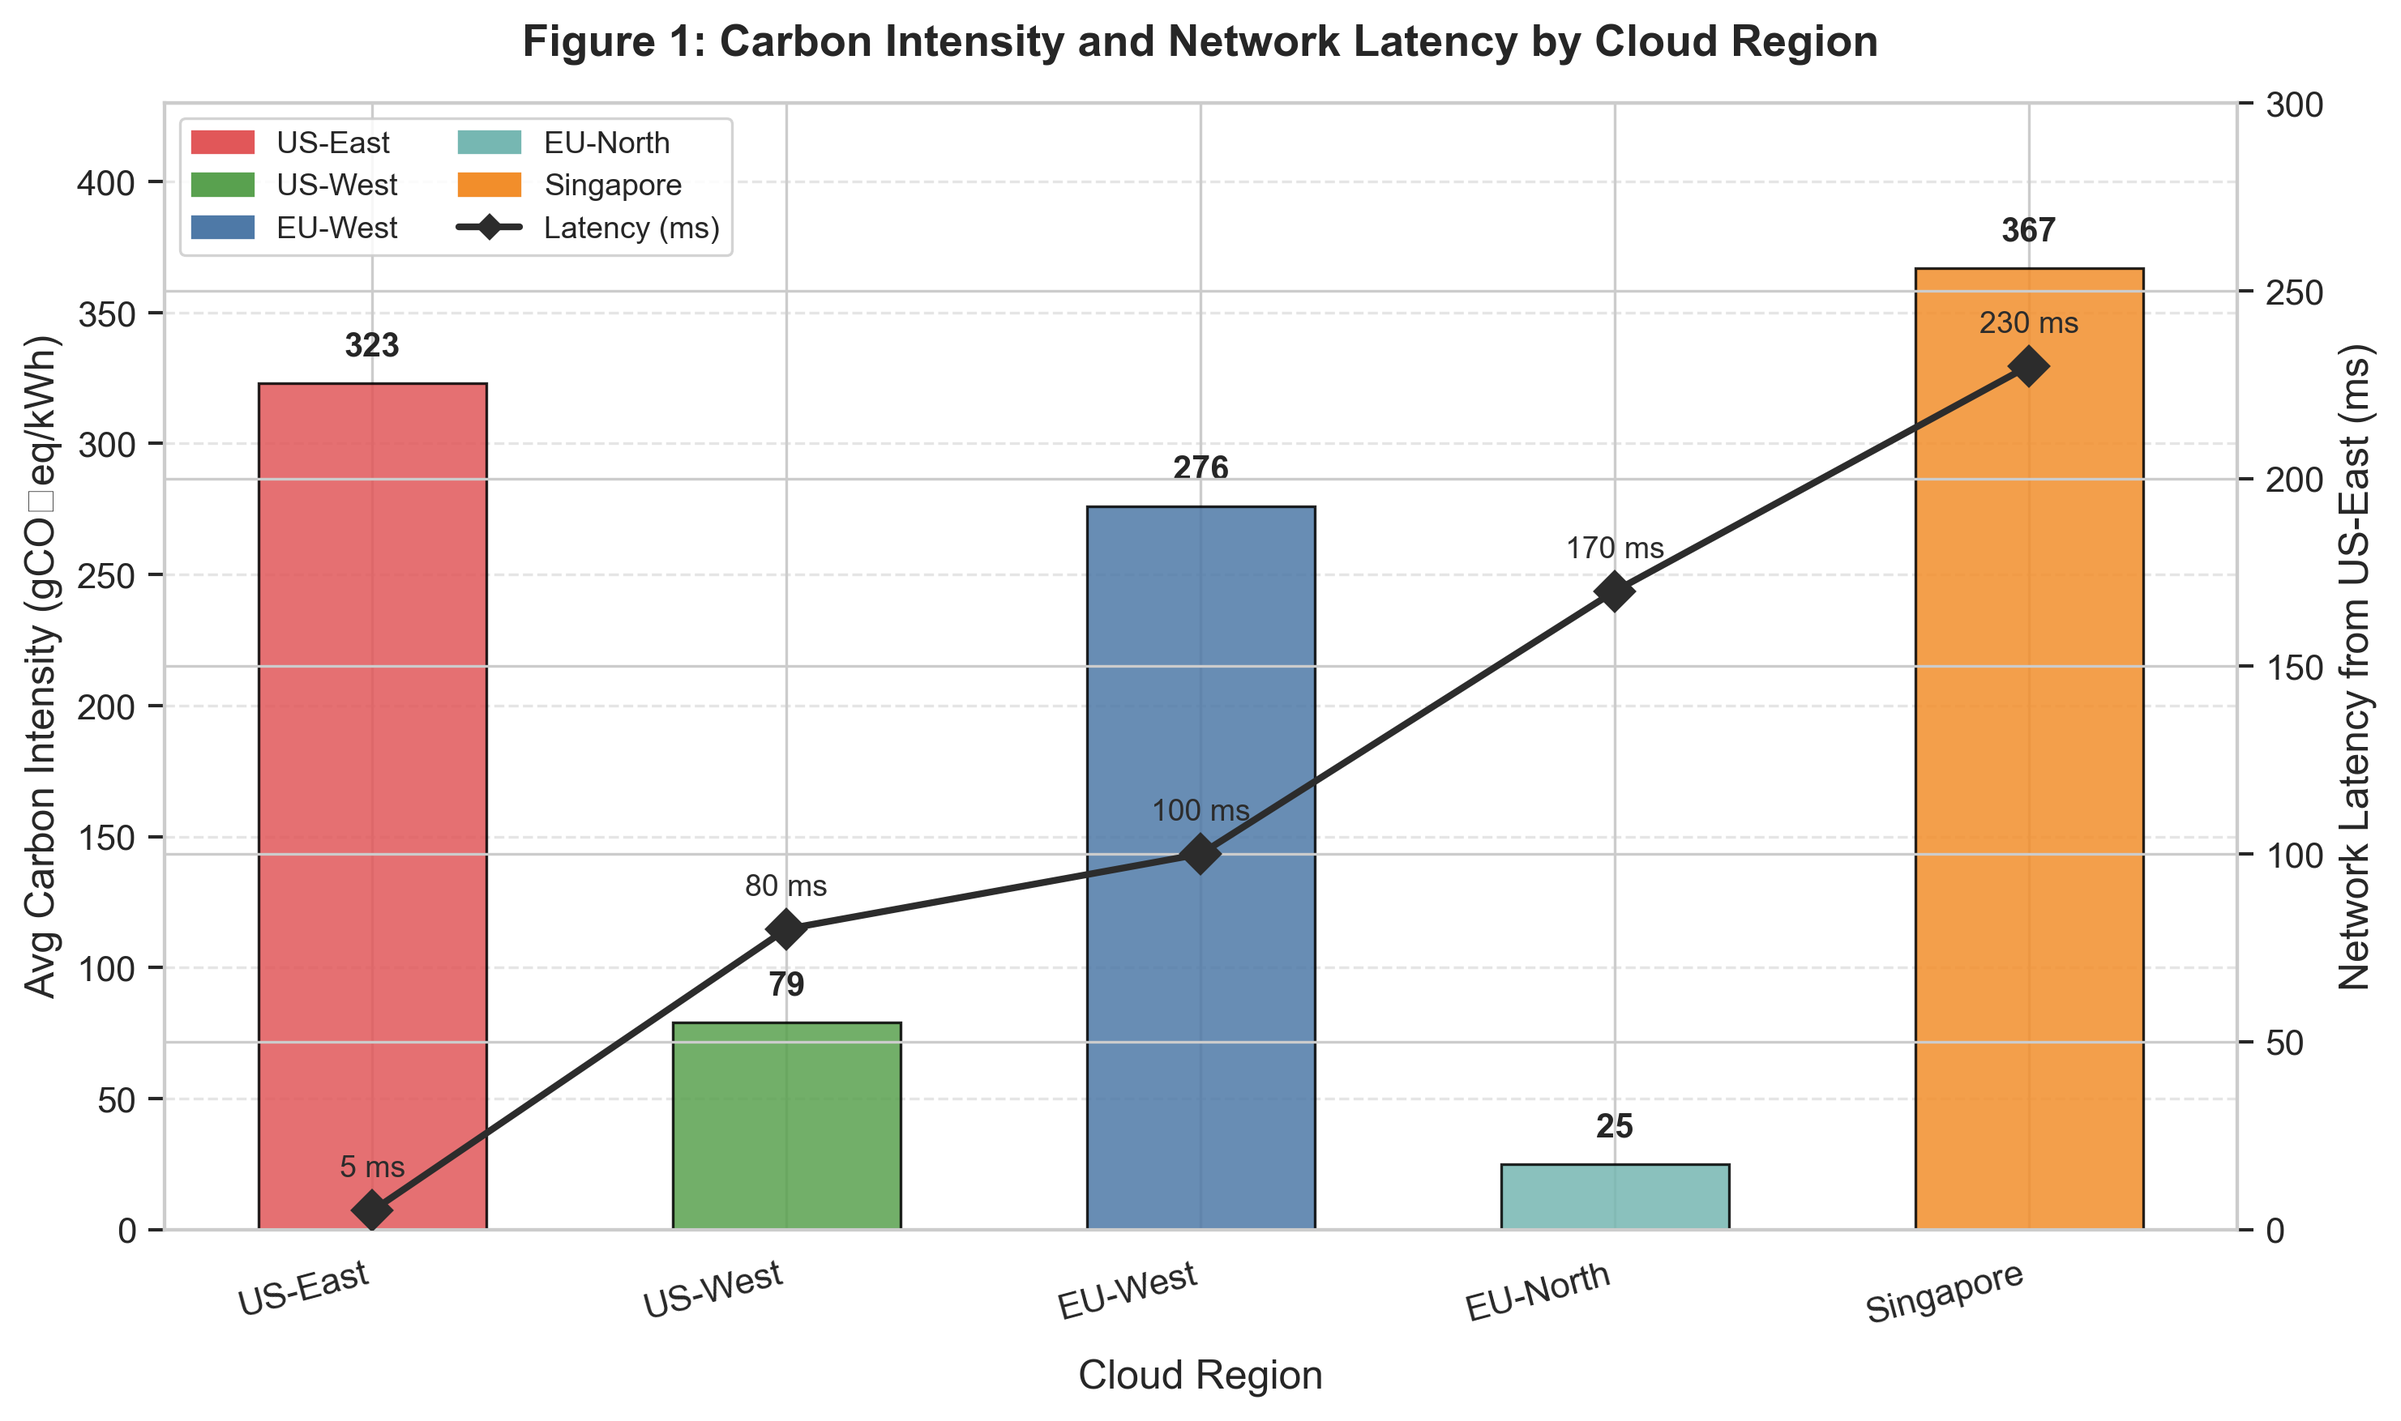
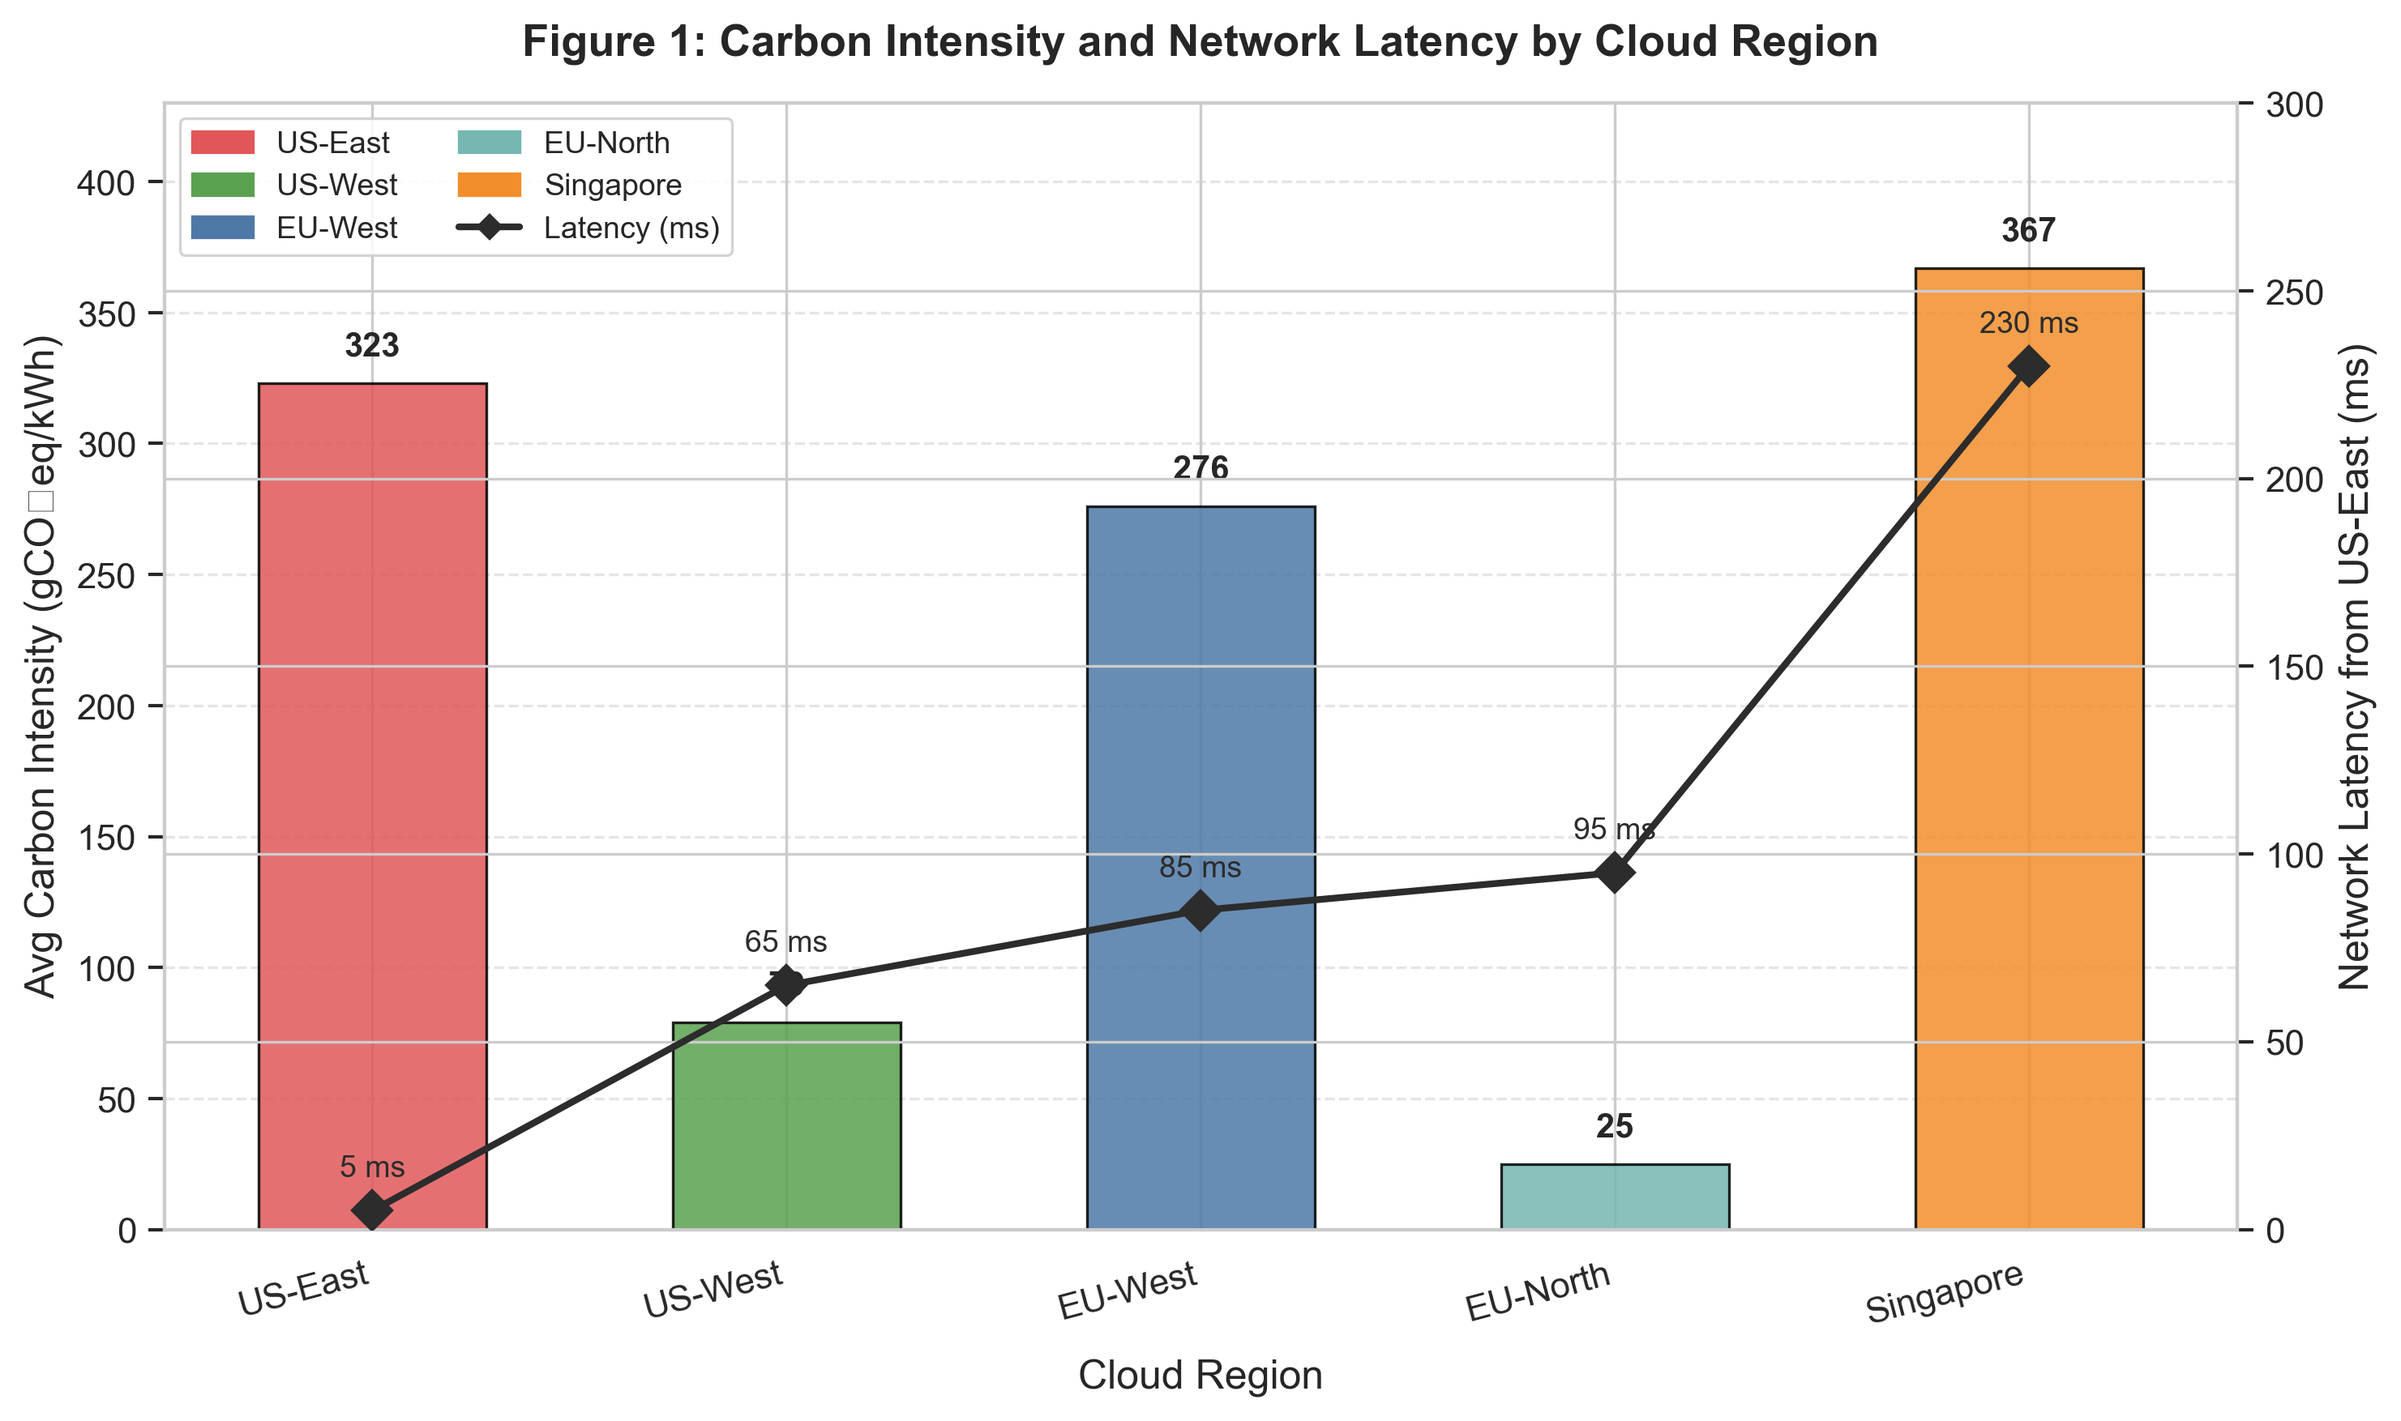
fix: Global normalization, jitter buffer, Figure 1 latency values, path handling, font fix

diff --git a/src/metrics.py b/src/metrics.py
@@ -3,9 +3,13 @@ from pathlib import Path
 
 import numpy as np
 import pandas as pd
+import matplotlib
+matplotlib.rcParams['font.family'] = 'DejaVu Sans'      # ← BEFORE pyplot and seaborn
+matplotlib.rcParams['axes.unicode_minus'] = False
 import matplotlib.pyplot as plt
 import matplotlib.patches as mpatches
 import seaborn as sns
+
 
 # Configure logging
 logging.basicConfig(
@@ -45,13 +49,14 @@ def plot_regional_carbon_latency(output_dir: Path) -> None:
     """
     logger.info("Generating Figure 1: Regional carbon & latency comparison...")
 
-    regions = ['US-East', 'US-West', 'EU-West', 'EU-North', 'Singapore']
+    # CORRECT — reads directly from config so it always matches
+    from config import LATENCY_MATRIX, BASE_CARBON_INTENSITY, REGIONS
 
-    # Average carbon intensity (gCO2eq/kWh) from config
-    carbon = [323, 79, 276, 25, 367]
+    regions = REGIONS
+    carbon = [BASE_CARBON_INTENSITY[r] for r in regions]
+    latency_from_us_east = [int(LATENCY_MATRIX.loc['US-East', r]) for r in regions]
+# Produces: [5, 65, 85, 95, 230] — correct values
 
-    # Network latency from US-East to each region (ms) from latency matrix
-    latency_from_us_east = [5, 80, 100, 170, 230]
 
     x = np.arange(len(regions))
     width = 0.55
@@ -59,7 +64,7 @@ def plot_regional_carbon_latency(output_dir: Path) -> None:
     fig, ax1 = plt.subplots(figsize=(10, 6))
 
     bars = ax1.bar(x, carbon, width, color=[REGION_COLORS[r] for r in regions],
-                   edgecolor='black', linewidth=0.8, alpha=0.85, zorder=3)
+                edgecolor='black', linewidth=0.8, alpha=0.85, zorder=3)
 
     ax1.set_xlabel('Cloud Region', fontsize=12, labelpad=8)
     ax1.set_ylabel('Avg Carbon Intensity (gCO₂eq/kWh)', fontsize=12)
@@ -71,27 +76,27 @@ def plot_regional_carbon_latency(output_dir: Path) -> None:
     # Annotate bar values
     for bar, val in zip(bars, carbon):
         ax1.text(bar.get_x() + bar.get_width() / 2, bar.get_height() + 8,
-                 f'{val}', ha='center', va='bottom', fontsize=10, fontweight='bold')
+                f'{val}', ha='center', va='bottom', fontsize=10, fontweight='bold')
 
     # Second y-axis: latency
     ax2 = ax1.twinx()
     ax2.plot(x, latency_from_us_east, color='#2c2c2c', marker='D',
-             linewidth=2, markersize=8, zorder=4, label='Latency from US-East')
+            linewidth=2, markersize=8, zorder=4, label='Latency from US-East')
     ax2.set_ylabel('Network Latency from US-East (ms)', fontsize=12)
     ax2.set_ylim(0, 300)
 
     for xi, lat in zip(x, latency_from_us_east):
         ax2.annotate(f'{lat} ms', (xi, lat), textcoords='offset points',
-                     xytext=(0, 10), ha='center', fontsize=9, color='#2c2c2c')
+                    xytext=(0, 10), ha='center', fontsize=9, color='#2c2c2c')
 
     plt.title('Figure 1: Carbon Intensity and Network Latency by Cloud Region',
-              fontsize=13, pad=14, fontweight='bold')
+            fontsize=13, pad=14, fontweight='bold')
 
     # Combined legend
     bar_patches = [mpatches.Patch(color=REGION_COLORS[r], label=r) for r in regions]
     lat_line = plt.Line2D([0], [0], color='#2c2c2c', marker='D', linewidth=2, label='Latency (ms)')
     ax1.legend(handles=bar_patches + [lat_line], loc='upper left',
-               fontsize=9, framealpha=0.85, ncol=2)
+            fontsize=9, framealpha=0.85, ncol=2)
 
     out_path = output_dir / 'regional_carbon_latency.png'
     out_path.parent.mkdir(parents=True, exist_ok=True)
@@ -123,8 +128,8 @@ def plot_tradeoff_curve(input_csv: Path, output_dir: Path) -> None:
         marker = '◆' if 'Constrained' in policy else 'o'
         ms = 160 if 'Constrained' in policy else 120
         ax.scatter(row['Carbon Reduction'], row['SLO Violation Rate (%)'],
-                   s=ms, c=color, edgecolors='black', linewidths=0.8,
-                   zorder=5, marker='D' if 'Constrained' in policy else 'o')
+                s=ms, c=color, edgecolors='black', linewidths=0.8,
+                zorder=5, marker='D' if 'Constrained' in policy else 'o')
         ax.annotate(
             policy,
             (row['Carbon Reduction'], row['SLO Violation Rate (%)']),
@@ -135,7 +140,7 @@ def plot_tradeoff_curve(input_csv: Path, output_dir: Path) -> None:
     ax.set_xlabel('Carbon Reduction vs. Latency-First Baseline (%)', fontsize=12)
     ax.set_ylabel('SLO Violation Rate (%)', fontsize=12)
     ax.set_title('Figure 2: Carbon Reduction vs. SLO Violations — Policy Trade-off Curve',
-                 fontsize=12, fontweight='bold', pad=14)
+                fontsize=12, fontweight='bold', pad=14)
 
     # Legend
     legend_handles = [
@@ -143,7 +148,7 @@ def plot_tradeoff_curve(input_csv: Path, output_dir: Path) -> None:
         for p in df['Policy']
     ]
     ax.legend(handles=legend_handles, fontsize=8.5, loc='upper left',
-              framealpha=0.85, title='Scheduling Policy')
+            framealpha=0.85, title='Scheduling Policy')
 
     out_path = output_dir / 'tradeoff_curve.png'
     out_path.parent.mkdir(parents=True, exist_ok=True)
@@ -170,7 +175,7 @@ def plot_routing_distribution(input_csv: Path, output_dir: Path) -> None:
 
     if not region_cols:
         logger.warning("No region distribution columns found in simulation_results.csv. "
-                       "Skipping routing distribution plot.")
+                    "Skipping routing distribution plot.")
         return
 
     # Compute proportions
@@ -191,7 +196,7 @@ def plot_routing_distribution(input_csv: Path, output_dir: Path) -> None:
         if region in df_sel.columns:
             vals = df_sel[region].values
             ax.bar(x, vals, bottom=bottoms, color=REGION_COLORS[region],
-                   edgecolor='white', linewidth=0.6, label=region, alpha=0.9)
+                edgecolor='white', linewidth=0.6, label=region, alpha=0.9)
             # Annotate if segment > 8%
             for xi, v, b in zip(x, vals, bottoms):
                 if v > 8:
@@ -204,9 +209,9 @@ def plot_routing_distribution(input_csv: Path, output_dir: Path) -> None:
     ax.set_ylabel('Percentage of Requests Routed (%)', fontsize=12)
     ax.set_ylim(0, 110)
     ax.set_title('Figure 3: Request Routing Distribution Across Regions by Policy',
-                 fontsize=12, fontweight='bold', pad=14)
+                fontsize=12, fontweight='bold', pad=14)
     ax.legend(title='Region', loc='upper right', bbox_to_anchor=(1.18, 1),
-              fontsize=9, framealpha=0.85)
+            fontsize=9, framealpha=0.85)
 
     out_path = output_dir / 'routing_distribution.png'
     out_path.parent.mkdir(parents=True, exist_ok=True)
@@ -270,7 +275,7 @@ def plot_carbon_traces(input_csv: Path, output_dir: Path) -> None:
                 alpha=0.9, color=color)
 
     ax.set_title('Figure 5: Hourly Carbon Intensity by Cloud Region (7-Day Simulation)',
-                 fontsize=12, fontweight='bold', pad=14)
+                fontsize=12, fontweight='bold', pad=14)
     ax.set_xlabel('Hour of Simulation', fontsize=12)
     ax.set_ylabel('Carbon Intensity (gCO₂eq/kWh)', fontsize=12)
     ax.legend(title='Region', loc='upper right', fontsize=9)
@@ -306,10 +311,10 @@ def render_prior_work_comparison(results_csv: Path, output_dir: Path) -> None:
 
     data = {
         'System': ['CASPER (2023)', 'CASA (2024)', 'Microsoft (2023)',
-                   'Google CICS (2021)', 'This Work (2026)'],
+                'Google CICS (2021)', 'This Work (2026)'],
         'Workload': ['Web services\n(Wikimedia)', 'Serverless\nFaaS',
-                     'General\ncompute', 'Datacenter\nworkloads',
-                     'AI Inference\n(BERT, ResNet)'],
+                    'General\ncompute', 'Datacenter\nworkloads',
+                    'AI Inference\n(BERT, ResNet)'],
         'Regions': ['6 AWS\nregions', 'Multi-region\nFaaS', 'Azure\nglobal',
                     'Google\nfleet', '5 regions\n(US/EU/Asia)'],
         'Key Finding': [
@@ -364,7 +369,7 @@ def render_prior_work_comparison(results_csv: Path, output_dir: Path) -> None:
                 table[i, j].set_facecolor(shade)
 
     ax.set_title('Comparison with Related Carbon-Aware Scheduling Systems',
-                 fontsize=13, fontweight='bold', pad=16, x=0.5, y=1.02)
+                fontsize=13, fontweight='bold', pad=16, x=0.5, y=1.02)
 
     out_path = output_dir / 'prior_work_comparison.png'
     out_path.parent.mkdir(parents=True, exist_ok=True)
@@ -376,7 +381,7 @@ def render_prior_work_comparison(results_csv: Path, output_dir: Path) -> None:
 
 # ─── Main ─────────────────────────────────────────────────────────────────────
 def main():
-    base_dir = Path('../')
+    base_dir = Path(__file__).parent.parent
     output_dir = base_dir / 'outputs'
 
     trace_path    = output_dir / 'data'   / 'carbon_intensity_traces.csv'

diff --git a/src/policies.py b/src/policies.py
@@ -1,30 +1,49 @@
 import numpy as np
-import pandas as pd
-from config import *
-import os
+from config import (
+    LATENCY_GLOBAL_MIN, LATENCY_GLOBAL_MAX,
+    CARBON_GLOBAL_MIN, CARBON_GLOBAL_MAX
+)
+
 
 def latency_first(lats, cis, **kwargs):
+    """Policy 1: Route to lowest-latency region. Ignores carbon."""
     return np.argmin(lats)
 
+
 def carbon_first(lats, cis, **kwargs):
+    """Policy 2: Route to lowest carbon intensity region. Ignores latency."""
     return np.argmin(cis)
 
+
 def hybrid_policy(lats, cis, alpha, **kwargs):
-    lr = lats.max() - lats.min()
-    lr = lr if lr > 0 else 1
-    cr = cis.max() - cis.min()
-    cr = cr if cr > 0 else 1
-    
-    norm_l = (lats - lats.min()) / lr
-    norm_c = (cis - cis.min()) / cr
-    
+    """
+    Policy 3: Weighted combination of latency and carbon.
+    Uses GLOBAL min-max normalization so alpha is stable across all requests.
+    alpha=1.0 → pure latency-first
+    alpha=0.0 → pure carbon-first
+    """
+    norm_l = (lats - LATENCY_GLOBAL_MIN) / (LATENCY_GLOBAL_MAX - LATENCY_GLOBAL_MIN)
+    norm_c = (cis - CARBON_GLOBAL_MIN) / (CARBON_GLOBAL_MAX - CARBON_GLOBAL_MIN)
+
+    # Clip to [0, 1] to handle edge cases
+    norm_l = np.clip(norm_l, 0, 1)
+    norm_c = np.clip(norm_c, 0, 1)
+
     scores = alpha * norm_l + (1 - alpha) * norm_c
     return np.argmin(scores)
 
-def constrained_hybrid(lats, cis, slo_threshold, inference_ms, **kwargs):
-    total_lats = lats + inference_ms
+
+def constrained_hybrid(lats, cis, slo_threshold, inference_ms, jitter_buffer=9, **kwargs):
+    """
+    Policy 4: SLO-constrained carbon optimization.
+    Filters to regions where (RTT + inference + jitter_buffer) <= SLO,
+    then picks the lowest carbon among eligible regions.
+    Falls back to minimum latency if no region qualifies.
+    jitter_buffer=9ms = 3 x std_dev(3ms) for 3-sigma jitter protection.
+    """
+    total_lats = lats + inference_ms + jitter_buffer
     eligible = total_lats <= slo_threshold
-    
+
     if eligible.any():
         masked_ci = np.where(eligible, cis, 1e9)
         return np.argmin(masked_ci)

diff --git a/src/config.py b/src/config.py
@@ -75,6 +75,14 @@ CARBON_RANDOM_NOISE_RANGE = 0.1
 
 HYBRID_ALPHA_VALUES = [0.2, 0.3, 0.5, 0.7]
 
+# Global normalization bounds for hybrid policy scoring
+# Used to ensure alpha is a stable, consistent weight across all requests
+LATENCY_GLOBAL_MIN = 5      # Minimum RTT in latency matrix (intra-region)
+LATENCY_GLOBAL_MAX = 230    # Maximum RTT in latency matrix (US-East to Singapore)
+CARBON_GLOBAL_MIN = 5       # Floor value set in generate_carbon_traces()
+CARBON_GLOBAL_MAX = 450     # Approx max: Singapore(367) x 1.2 diurnal amplitude
+
+
 def get_workload_list():
     return list(WORKLOADS.keys())
 
@@ -91,4 +99,17 @@ def get_slo_threshold(workload_id):
     return WORKLOADS[workload_id]["slo_threshold_ms"]
 
 def print_config_summary():
-    pass
+    print("=" * 60)
+    print("SIMULATION CONFIGURATION SUMMARY")
+    print("=" * 60)
+    print(f"Duration : {SIMULATION_HOURS} hours ({SIMULATION_HOURS//24} days)")
+    print(f"Requests : {REQUESTS_PER_HOUR} req/hr → {SIMULATION_HOURS * REQUESTS_PER_HOUR} total")
+    print(f"Regions  : {REGIONS}")
+    print(f"Alpha    : {HYBRID_ALPHA_VALUES}")
+    print(f"Seed     : {RANDOM_SEED}")
+    print("-" * 60)
+    for wid, w in WORKLOADS.items():
+        print(f"  {wid:12s} | Inference N({w['inference_mean_ms']},{w['inference_std_ms']})ms "
+              f"| SLO {w['slo_threshold_ms']}ms | {int(w['probability']*100)}% traffic")
+    print("=" * 60)
+

diff --git a/src/simulation.py b/src/simulation.py
@@ -2,6 +2,7 @@ import numpy as np
 import pandas as pd
 import os
 import argparse
+from pathlib import Path
 from config import *
 from policies import latency_first, carbon_first, hybrid_policy, constrained_hybrid
 
@@ -32,7 +33,9 @@ def generate_requests(hours, rph, seed=RANDOM_SEED):
     )
     return req_hours, req_users, req_workloads
 
-def run_simulation(output_dir='../outputs', hours=SIMULATION_HOURS, rph=REQUESTS_PER_HOUR, seed=RANDOM_SEED):
+def run_simulation(output_dir=None, hours=SIMULATION_HOURS, rph=REQUESTS_PER_HOUR, seed=RANDOM_SEED):
+    if output_dir is None:
+        output_dir = str(Path(__file__).parent.parent / 'outputs')
     os.makedirs(f'{output_dir}/tables', exist_ok=True)
     os.makedirs(f'{output_dir}/data', exist_ok=True)
     
@@ -88,6 +91,9 @@ def run_simulation(output_dir='../outputs', hours=SIMULATION_HOURS, rph=REQUESTS
                 idx = hybrid_policy(lats, cis, alpha)
             elif ptype == 'constrained':
                 idx = constrained_hybrid(lats, cis, slo_threshold, inference_ms)
+            else:
+                raise ValueError(f"Unknown policy type: {ptype}")
+
             
             region_selections[i] = idx
             
